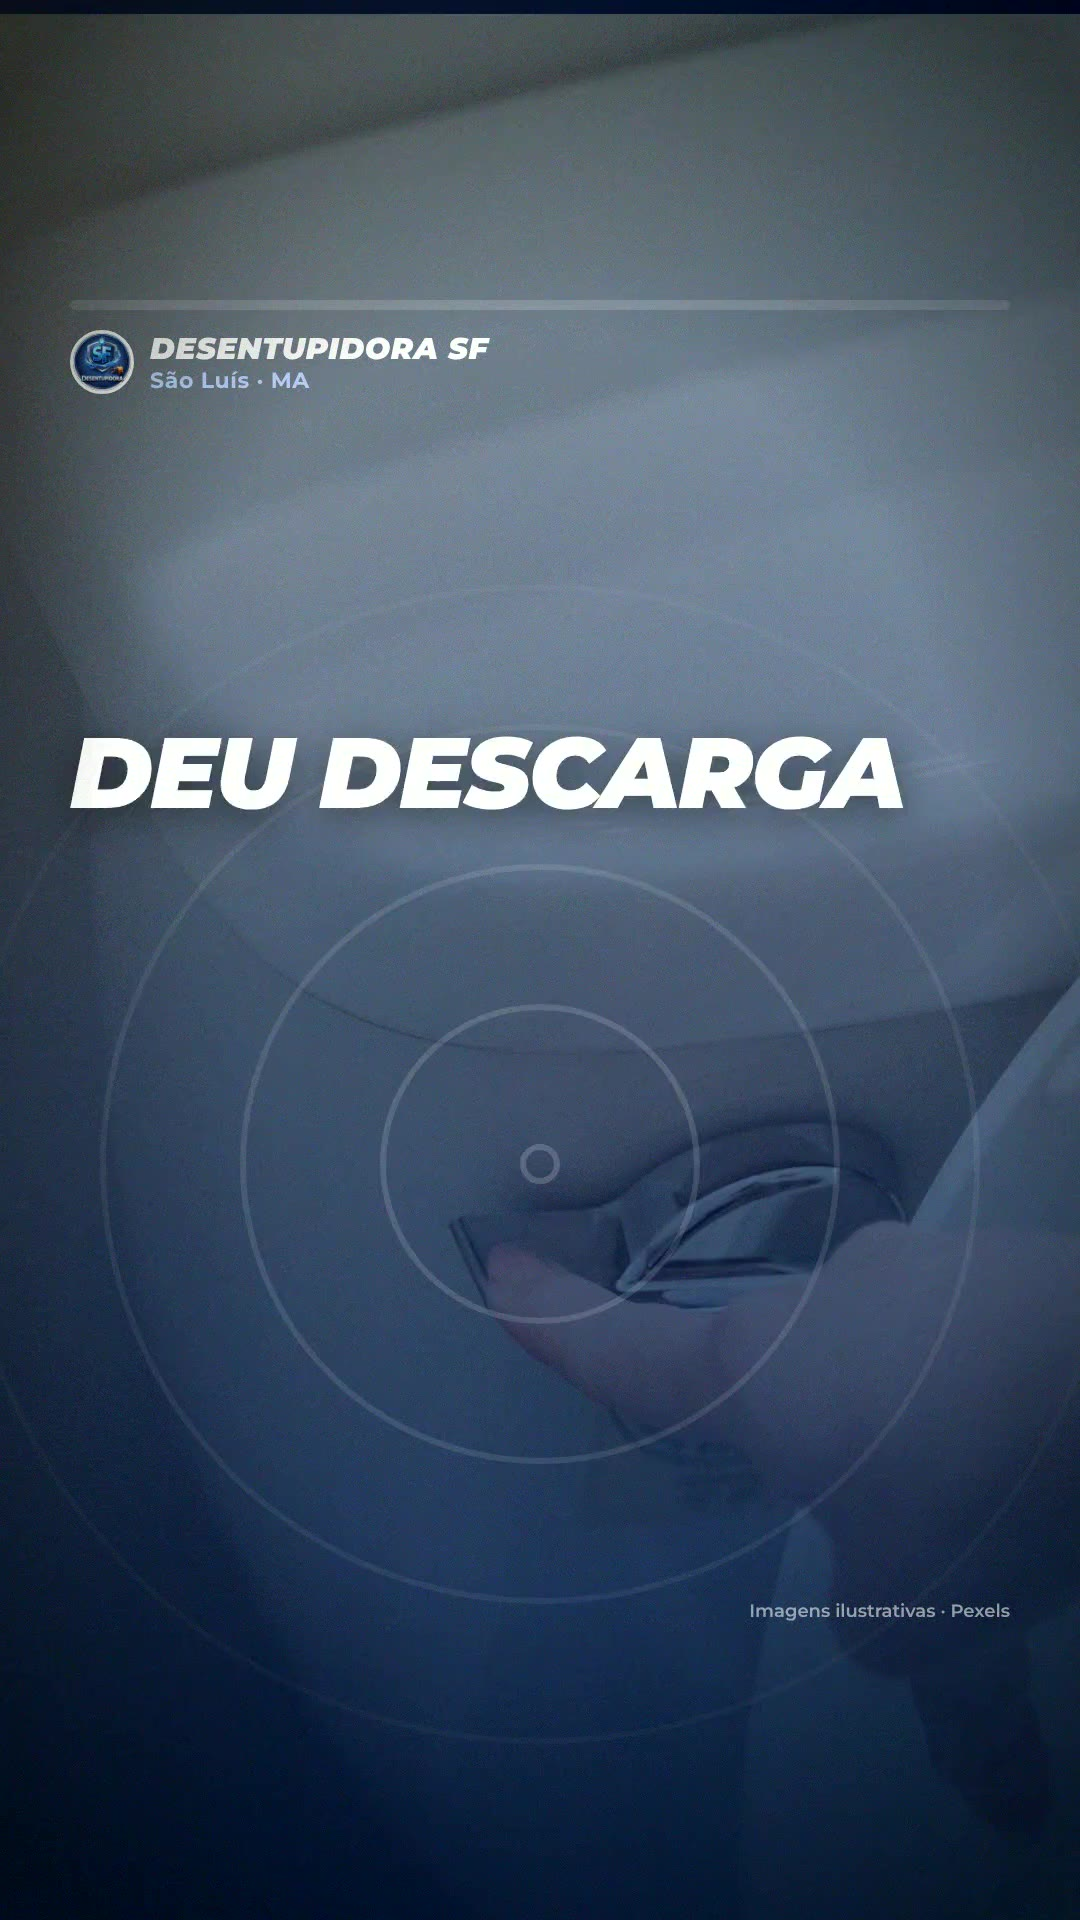
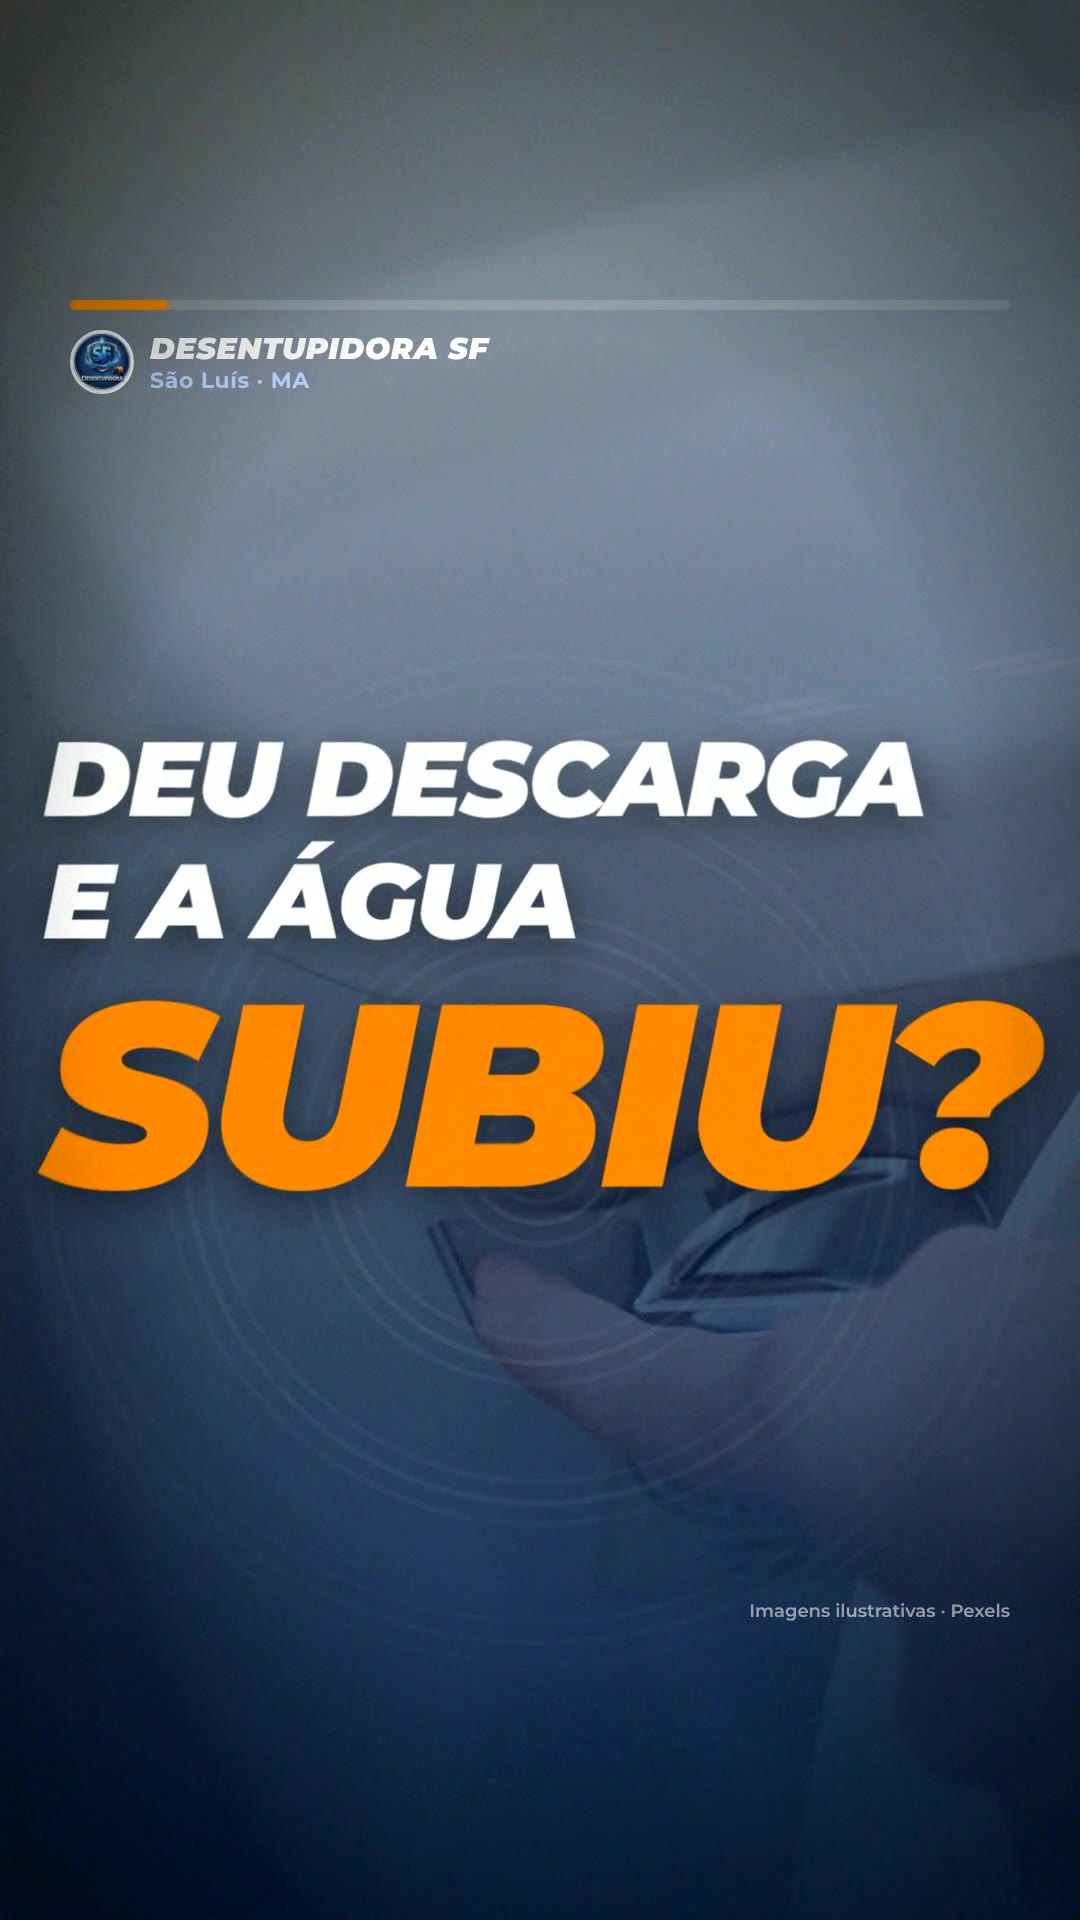
SF: 5 criativos em motion (vaso, ralo, caixa de gordura) · conta Zuleide
Claude-Session: https://claude.ai/code/session_01HVWyXPZiMC2jWfs5PZo8Nt

diff --git a/REGISTRO-DAS-CONTAS.md b/REGISTRO-DAS-CONTAS.md
@@ -277,3 +277,4 @@ Levantado pela conta Lindson em 01/11/2026 a partir do histórico do git e dos a
 | 14/11/2026 | Pedro | Dra. Jaci: 5 criativos premium de Black Friday (feed e story) | privado dados/clientes-arquivos/jaci-criativos-bf/ | aguardando aprovação |
 | 14/11/2026 | Zuleide (Paollo) | Orégano Turbo: Reels semana 1 — 21 Reels (15 conteúdo/6 venda, 3/dia 16 a 22/11), plano, roteiros, legendas SEO, pesquisa (10 refs, 6 países), motor adaptado à identidade v4 com voz Antonio +4%, capas e prévia | agencia/operacao-propria/reels/ (PLANO-SEMANA-1.md, semana-1/NN/, previa.jpg; mp4 fora do Git, na máquina da sessão, refazer com rodar.sh) | aguardando aprovação |
 | 14/11/2026 | Zuleide | Painel da Orégano na Central com os 21 Reels da semana 1 (player, capa, título Shorts, legenda, dia/hora, baixar) | agencia/sistema-clientes/oregano-turbo/montar-oregano.py → /painel/oregano | no ar |
+| 14/11 | Zuleide | 5 criativos em motion para anúncio da Desentupidora SF (2 vaso, 2 ralo, 1 caixa de gordura), 18-20 s, voz Antonio, SFX, trilha Mixkit, pesquisa premium (9 refs, 4 países) | `agencia/clientes/desentupidora-sf/motion-sf-14-11/` (mp4 fora do Git, na máquina da Zuleide) | aguardando aprovação |

diff --git a/MENTE-COLETIVA.md b/MENTE-COLETIVA.md
@@ -17,3 +17,4 @@ Pedido do Lindson: "quero que todas as equipes trabalhem como uma mente coletiva
 - 14/11 14:59 · Leandro: Raposa Shorts 31-40 no app de postagem da Central (/painel/canais#raposa), com vídeo, capa, textos e agenda.
 - 14/11 18:45 · Zuleide → todas: Orégano Reels semana 1 pronta (21 vídeos, agencia/operacao-propria/reels/). Os entregáveis dos CTAs (lista no PLANO) ainda precisam ser montados; quem pegar, avise aqui.
 - 14/11 18:41 · Zuleide → todas: os 21 Reels da Orégano estão na aba Aprovações de /painel/oregano (montar-oregano.py chama o montar_painel.py e acrescenta os Reels).
+- 14/11 Zuleide: entreguei 5 motions da SF (vaso, ralo, caixa de gordura) em agencia/clientes/desentupidora-sf/motion-sf-14-11/; mp4 só na máquina da Zuleide (fora do Git).
